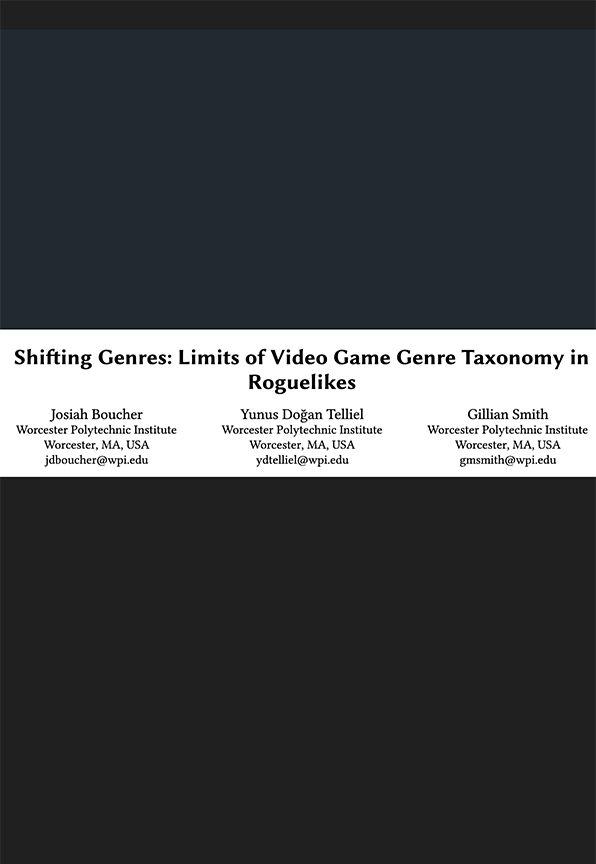
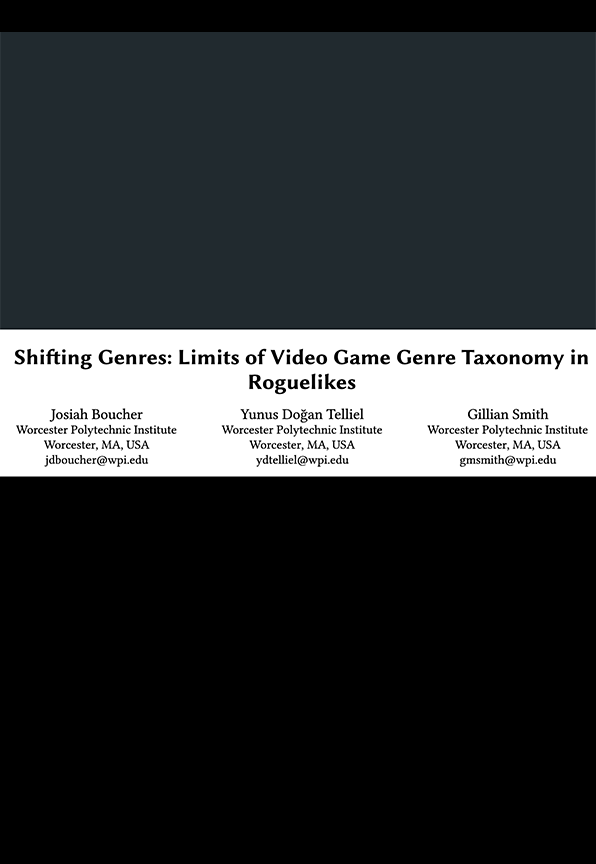
morebookshelf fixes again

diff --git a/_sass/_base.scss b/_sass/_base.scss
@@ -1359,7 +1359,7 @@ figure.cover {
     vertical-align: bottom;
   }
 
-  figcaption.watching {
+  figcaption.abandoned {
     font-family: monospace;
     color: #23212d;
     text-transform: uppercase;
@@ -1367,7 +1367,8 @@ figure.cover {
   }
 
   figcaption.finished,
-  figcaption.watched {
+  figcaption.watched,
+  figcaption.played {
     font-family: monospace;
     color: #23212d;
     text-transform: uppercase;
@@ -1396,14 +1397,16 @@ figure.cover {
   }
 
   figcaption.reading,
-  figcaption.watching {
+  figcaption.watching,
+  figcaption.playing,
+  figcaption.listening {
     font-family: monospace;
     color: #23212d;
     text-transform: uppercase;
     background-color: #f89406;
   }
 
-  figcaption.playing,
+  figcaption.reread,
   figcaption.rewatch {
     font-family: monospace;
     color: #23212d;

diff --git a/_books/EndToEndProceduralInCavesOfQud.md b/_books/EndToEndProceduralInCavesOfQud.md
@@ -2,7 +2,7 @@
 layout: book-review
 title: End-to-End Procedural Generation in Caves of Qud (GDC)
 author: Brian Bucklew & Jason Grinblat
-cover: assets/img/book_covers/EndToEndCavesOfQud.png
+cover: assets/img/book_covers/EndToEndCaveOfQud.png
 olid: # use Open Library ID to fetch cover (if no `cover` is provided)
 isbn:  # use ISBN to fetch cover (if no `olid` is provided, dashes are optional)
 categories: conference academic

diff --git a/_books/CavesOfQud.md b/_books/CavesOfQud.md
@@ -2,7 +2,7 @@
 layout: book-review
 title: Caves Of Qud
 author: Developed by Westwood Associates and released by Infocom
-cover: assets/img/book_covers/CavesOfQud.jpg
+cover: assets/img/book_covers/CaveOfQud.jpg
 olid: # use Open Library ID to fetch cover (if no `cover` is provided)
 isbn:  # use ISBN to fetch cover (if no `olid` is provided, dashes are optional)
 categories: game video-game
